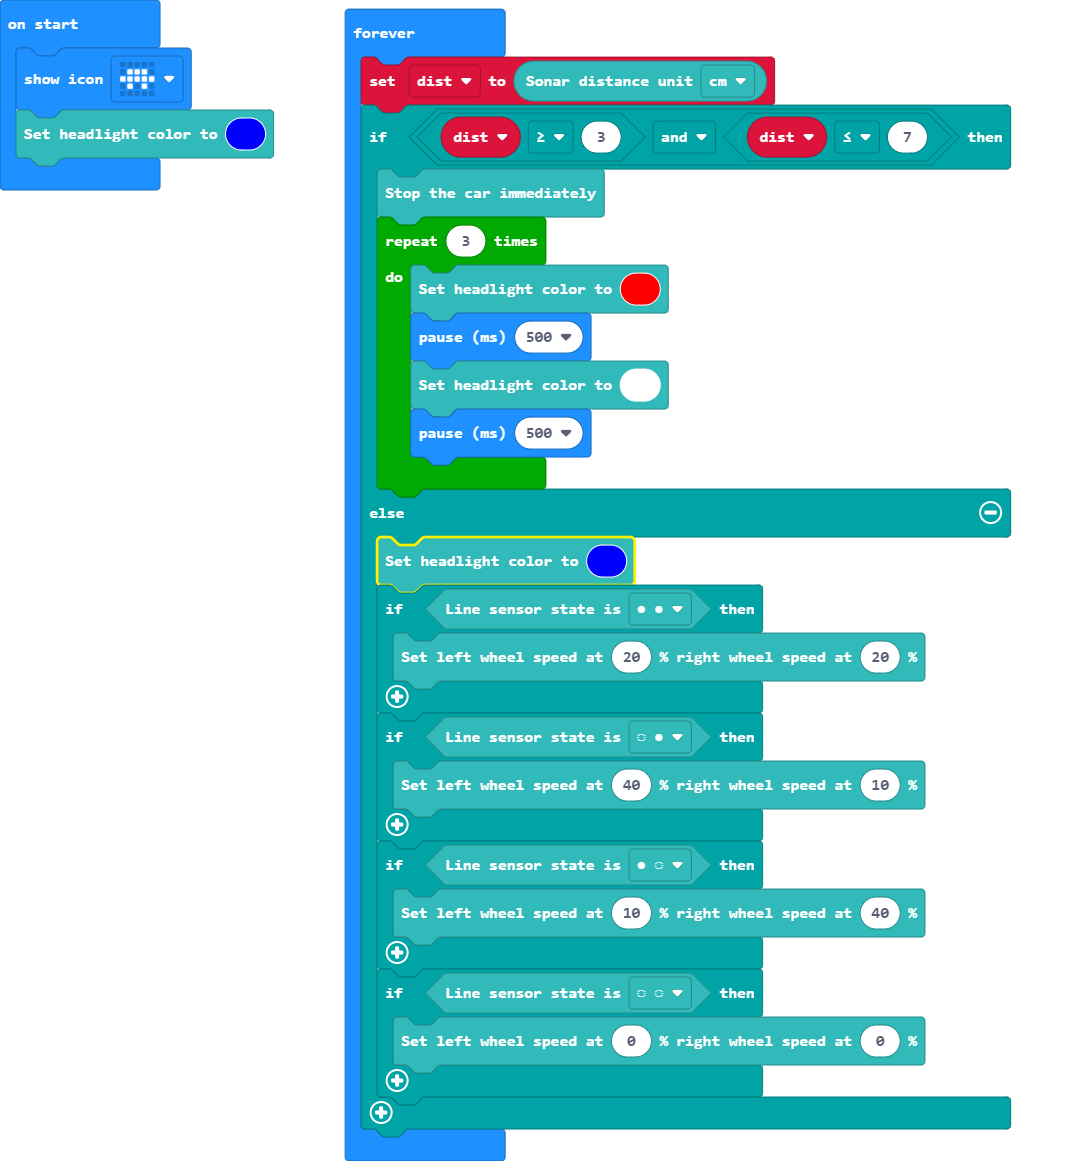
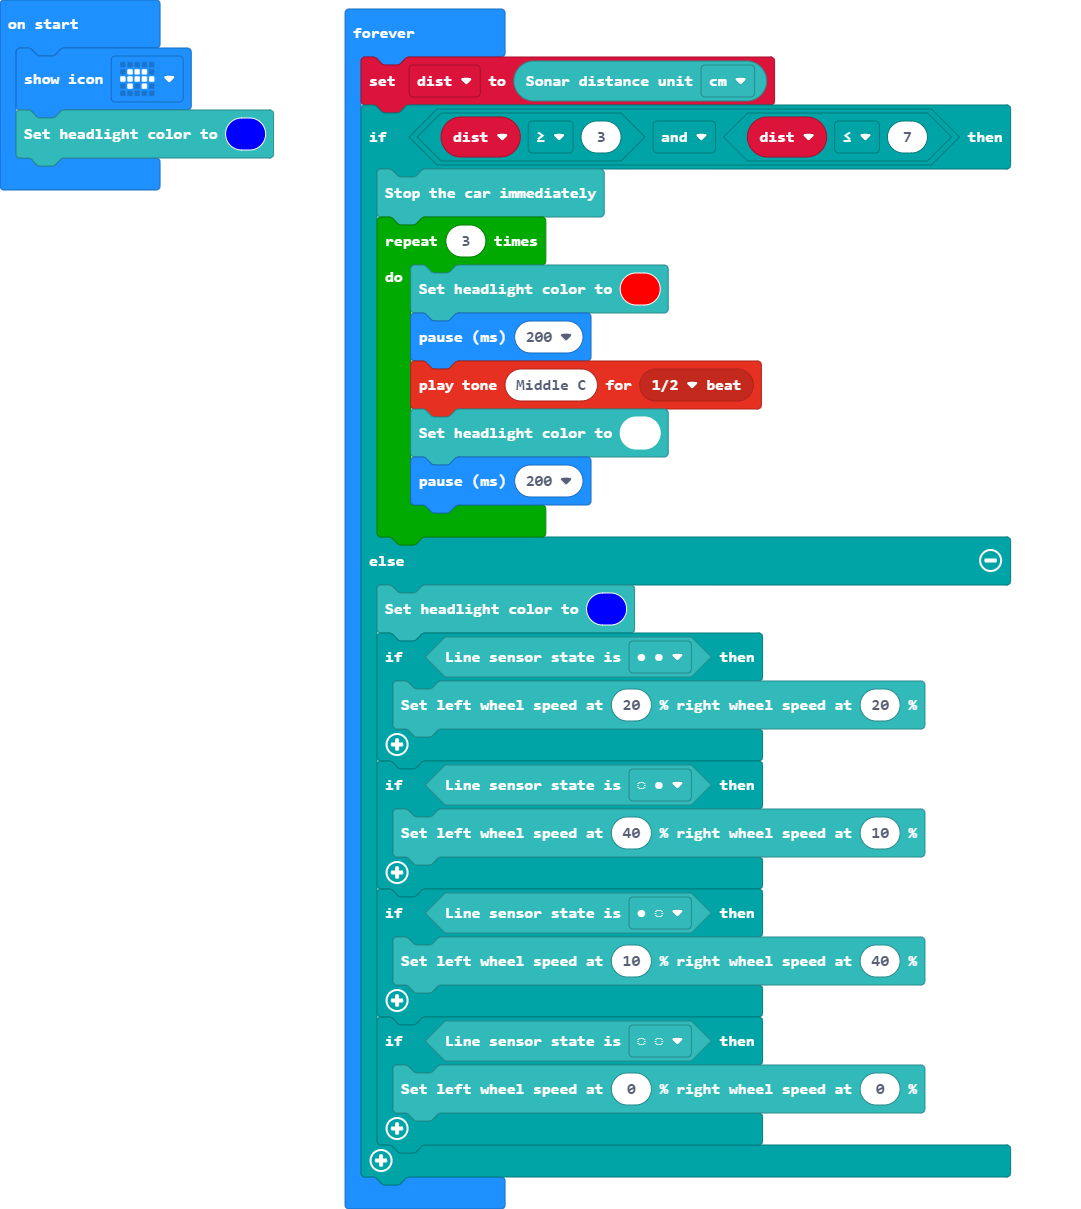
Update main.blocks, main.ts

Changed region(s): [[0.3358, 0.0, 0.9463, 0.9922], [0.0, 0.031, 0.2442, 0.186], [0.0305, 0.0, 0.0611, 0.031]]

diff --git a/main.ts b/main.ts
@@ -7,9 +7,10 @@ basic.forever(function () {
         TPBot.stopCar()
         for (let index = 0; index < 3; index++) {
             TPBot.headlightColor(0xff0000)
-            basic.pause(500)
+            basic.pause(200)
+            music.playTone(262, music.beat(BeatFraction.Half))
             TPBot.headlightColor(0xffffff)
-            basic.pause(500)
+            basic.pause(200)
         }
     } else {
         TPBot.headlightColor(0x0000ff)
